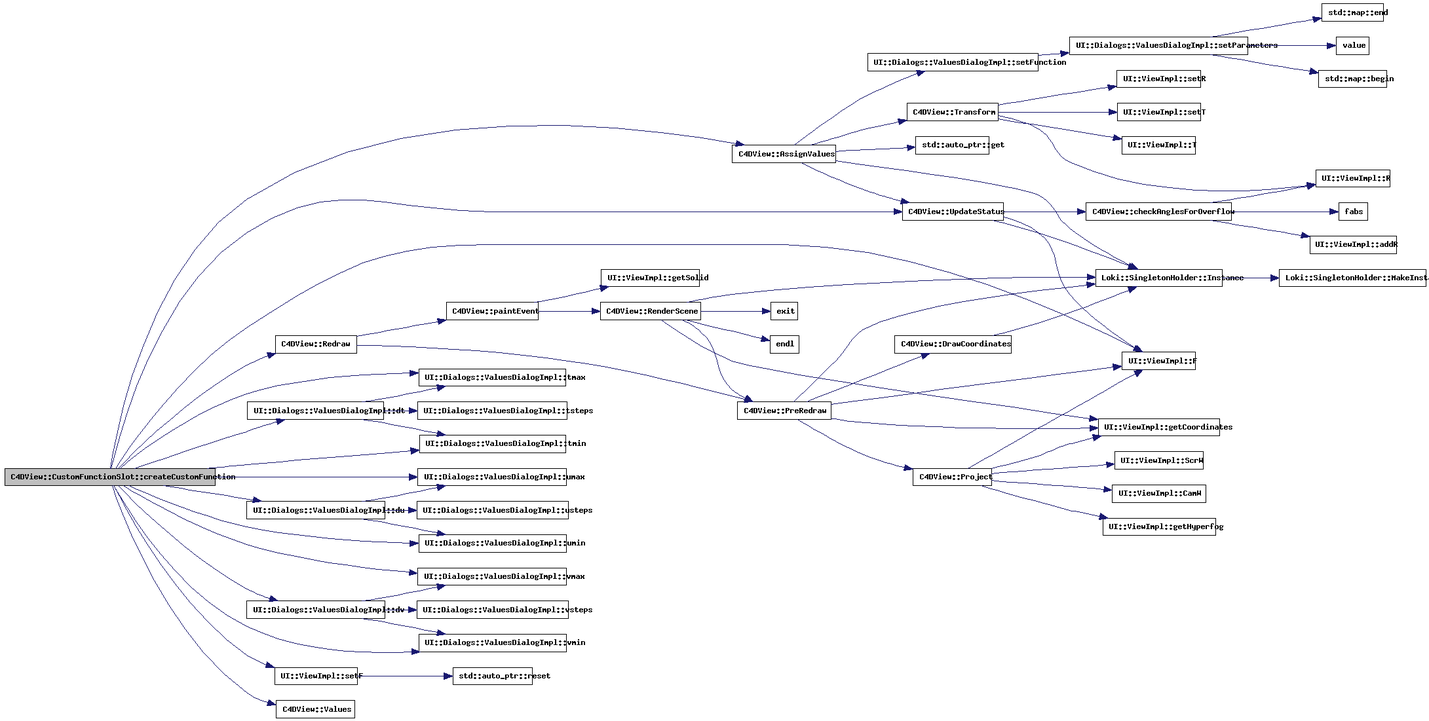
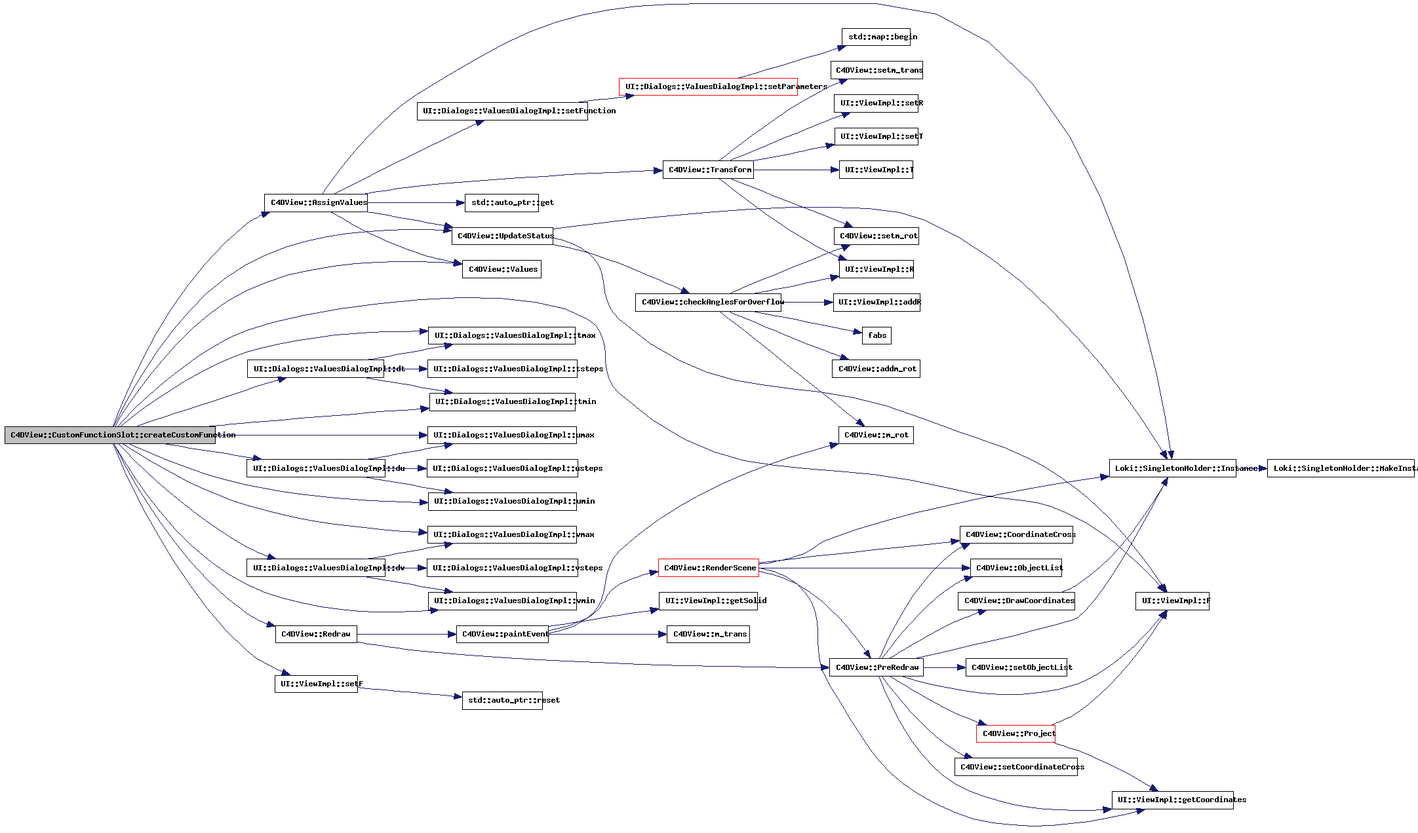
commented more functions and members

diff --git a/devel/html/html/group__UIHelpers.html b/devel/html/html/group__UIHelpers.html
@@ -99,7 +99,7 @@ Description: Implementation for <a class="el" href="group__UIHelpers.html#gb4150
 <dl class="author" compact><dt><b>Author:</b></dt><dd>: Helge Preuss &lt;<a href="mailto:scout@hyperspace-travel.de">scout@hyperspace-travel.de</a>&gt;, (C) 2008</dd></dl>
 Copyright: See COPYING file that comes with this distribution Factory method to create a new customized <a class="el" href="classFunction.html" title="A Function is a generalized four-dimensional mathematical function.">Function</a> of type R^3-&gt;R This function template is called by each slot with the correct function type as template parameter.<p>
 Sets F to the newly created <a class="el" href="classFunction.html" title="A Function is a generalized four-dimensional mathematical function.">Function</a>, checks the corresponding menu item, updates the ValuesDialog and redraws. Does some error handling in case the <a class="el" href="classFunction.html" title="A Function is a generalized four-dimensional mathematical function.">Function</a> could not be loaded. 
-<p>References <a class="el" href="4DView_8C-source.html#l00640">C4DView::AssignValues()</a>, <a class="el" href="ValuesDialogImpl_8H-source.html#l00057">UI::Dialogs::ValuesDialogImpl::dt()</a>, <a class="el" href="ValuesDialogImpl_8H-source.html#l00066">UI::Dialogs::ValuesDialogImpl::du()</a>, <a class="el" href="ValuesDialogImpl_8H-source.html#l00075">UI::Dialogs::ValuesDialogImpl::dv()</a>, <a class="el" href="ViewImpl_8H-source.html#l00040">UI::ViewImpl::F()</a>, <a class="el" href="4DView_8C-source.html#l00391">C4DView::Redraw()</a>, <a class="el" href="ViewImpl_8H-source.html#l00042">UI::ViewImpl::setF()</a>, <a class="el" href="ValuesDialogImpl_8H-source.html#l00053">UI::Dialogs::ValuesDialogImpl::tmax()</a>, <a class="el" href="ValuesDialogImpl_8H-source.html#l00051">UI::Dialogs::ValuesDialogImpl::tmin()</a>, <a class="el" href="ValuesDialogImpl_8H-source.html#l00062">UI::Dialogs::ValuesDialogImpl::umax()</a>, <a class="el" href="ValuesDialogImpl_8H-source.html#l00060">UI::Dialogs::ValuesDialogImpl::umin()</a>, <a class="el" href="4DView_8C-source.html#l00621">C4DView::UpdateStatus()</a>, <a class="el" href="4DView_8H-source.html#l00279">C4DView::Values()</a>, <a class="el" href="ValuesDialogImpl_8H-source.html#l00071">UI::Dialogs::ValuesDialogImpl::vmax()</a>, and <a class="el" href="ValuesDialogImpl_8H-source.html#l00069">UI::Dialogs::ValuesDialogImpl::vmin()</a>.</p>
+<p>References <a class="el" href="4DView_8C-source.html#l00640">C4DView::AssignValues()</a>, <a class="el" href="ValuesDialogImpl_8H-source.html#l00057">UI::Dialogs::ValuesDialogImpl::dt()</a>, <a class="el" href="ValuesDialogImpl_8H-source.html#l00066">UI::Dialogs::ValuesDialogImpl::du()</a>, <a class="el" href="ValuesDialogImpl_8H-source.html#l00075">UI::Dialogs::ValuesDialogImpl::dv()</a>, <a class="el" href="ViewImpl_8H-source.html#l00040">UI::ViewImpl::F()</a>, <a class="el" href="4DView_8C-source.html#l00391">C4DView::Redraw()</a>, <a class="el" href="ViewImpl_8H-source.html#l00042">UI::ViewImpl::setF()</a>, <a class="el" href="ValuesDialogImpl_8H-source.html#l00053">UI::Dialogs::ValuesDialogImpl::tmax()</a>, <a class="el" href="ValuesDialogImpl_8H-source.html#l00051">UI::Dialogs::ValuesDialogImpl::tmin()</a>, <a class="el" href="ValuesDialogImpl_8H-source.html#l00062">UI::Dialogs::ValuesDialogImpl::umax()</a>, <a class="el" href="ValuesDialogImpl_8H-source.html#l00060">UI::Dialogs::ValuesDialogImpl::umin()</a>, <a class="el" href="4DView_8C-source.html#l00621">C4DView::UpdateStatus()</a>, <a class="el" href="4DView_8H-source.html#l00304">C4DView::Values()</a>, <a class="el" href="ValuesDialogImpl_8H-source.html#l00071">UI::Dialogs::ValuesDialogImpl::vmax()</a>, and <a class="el" href="ValuesDialogImpl_8H-source.html#l00069">UI::Dialogs::ValuesDialogImpl::vmin()</a>.</p>
 
 <p>
 <div class="dynheader">
@@ -107,7 +107,7 @@ Here is the call graph for this function:</div>
 <div class="dynsection">
 <p><center><img src="group__UIHelpers_gb4150e26778debfb3de8214203578a41_cgraph.png" border="0" usemap="#group__UIHelpers_gb4150e26778debfb3de8214203578a41_cgraph_map" alt=""></center>
 <map name="group__UIHelpers_gb4150e26778debfb3de8214203578a41_cgraph_map">
-<area shape="rect" href="classC4DView.html#e38186ceacf6c4e6b13de7bee6cd8bda" title="Called whenever an object or the parameters have changed." alt="" coords="1117,221,1275,248"><area shape="rect" href="classC4DView.html#d37702c9ecc5cbf124df84d0263734b9" title="display some info about current object and its transformations" alt="" coords="1377,309,1529,336"><area shape="rect" href="classUI_1_1ViewImpl.html#7d0098100c1a7e5e9af8808072ab68da" title="UI::ViewImpl::F" alt="" coords="1712,537,1824,564"><area shape="rect" href="classUI_1_1Dialogs_1_1ValuesDialogImpl.html#16db20b10087e6c32a73cdf79f7d2f42" title="delta in parameter t" alt="" coords="377,613,585,640"><area shape="rect" href="classUI_1_1Dialogs_1_1ValuesDialogImpl.html#0a55d967b53b03382d72f4f9b3a8c76b" title="upper bound for parameter t" alt="" coords="639,563,863,589"><area shape="rect" href="classUI_1_1Dialogs_1_1ValuesDialogImpl.html#072f07410b8416016e23e33118d0b2d4" title="lower bound for parameter t" alt="" coords="640,664,861,691"><area shape="rect" href="classUI_1_1Dialogs_1_1ValuesDialogImpl.html#b561b67b911b7f242aa6a0a48c594370" title="delta in parameter u" alt="" coords="376,765,587,792"><area shape="rect" href="classUI_1_1Dialogs_1_1ValuesDialogImpl.html#79bc2ecceb55d8fe996caa8461b0f9d5" title="upper bound for parameter u" alt="" coords="637,715,864,741"><area shape="rect" href="classUI_1_1Dialogs_1_1ValuesDialogImpl.html#f88162efaf834e5984d4d8fe04d44af4" title="lower bound for parameter u" alt="" coords="639,816,863,843"><area shape="rect" href="classUI_1_1Dialogs_1_1ValuesDialogImpl.html#f08d237bd18f06ac69fd90122d06bc78" title="delta in parameter v" alt="" coords="376,917,587,944"><area shape="rect" href="classUI_1_1Dialogs_1_1ValuesDialogImpl.html#d9bc24310b0b1567cbac85c817828561" title="upper bound for parameter v" alt="" coords="637,867,864,893"><area shape="rect" href="classUI_1_1Dialogs_1_1ValuesDialogImpl.html#2f9af8468352e9afd8fb3b3bebd7ee43" title="lower bound for parameter v" alt="" coords="639,968,863,995"><area shape="rect" href="classC4DView.html#8d3fbc1fbe82b40046652bca8bde9605" title="Draw the transformed and projected function onto the screen." alt="" coords="420,512,543,539"><area shape="rect" href="classUI_1_1ViewImpl.html#e04c92a2f0580b1830b1cbfcca1c6715" title="Implementation of UI::View::setFunction." alt="" coords="419,1019,544,1045"><area shape="rect" href="classC4DView.html#ba6f8c8d13241215fc41f88a247cf6a7" title="C4DView::Values" alt="" coords="421,1069,541,1096"><area shape="rect" doxygen="libstdc++.tag:" href="a01015.html#bc36e1cfdc9c7940e3fea50de14560cd" title="std::auto_ptr::get" alt="" coords="1397,208,1509,235"><area shape="rect" href="classLoki_1_1SingletonHolder.html#52a113a9dc9aa53a5ab777c573f9fa28" title="Returns a reference to singleton object." alt="" coords="1672,411,1864,437"><area shape="rect" href="classUI_1_1Dialogs_1_1ValuesDialogImpl.html#dde4d7e444559027ba40b01581fee768" title="Adjust the display according to the Function whose Parameters are controlled." alt="" coords="1324,81,1583,108"><area shape="rect" href="classC4DView.html#16d5190870a166c65a20c59368ca0f2f" title="Overloaded function executing the transform to the default state." alt="" coords="1384,157,1523,184"><area shape="rect" href="classLoki_1_1SingletonHolder.html#d944c37d85028f4046d4e1f78f133710" title="create singleton object" alt="" coords="1952,411,2176,437"><area shape="rect" href="classUI_1_1Dialogs_1_1ValuesDialogImpl.html#1d1c6c3ea67ac213f4ce937ea1601fff" title="Adjust the displayed parameter fields to the parameters the function needs." alt="" coords="1632,56,1904,83"><area shape="rect" doxygen="libstdc++.tag:" href="a01208.html#fd7a61b93062043afa5b158ada25351e" title="std::map::begin" alt="" coords="2012,107,2116,133"><area shape="rect" doxygen="libstdc++.tag:" href="a01208.html#1c6e8eff4b690989cc1a3f746e68fb30" title="std::map::end" alt="" coords="2017,5,2111,32"><area shape="rect" doxygen="libstdc++.tag:" href="a01846.html#gdf513d2c47a98f2cd60f7dc86a343589" title="value" alt="" coords="2039,56,2089,83"><area shape="rect" href="classUI_1_1ViewImpl.html#a5594df1772137ac86e25b9f8435dc04" title="UI::ViewImpl::R" alt="" coords="2008,259,2120,285"><area shape="rect" href="classUI_1_1ViewImpl.html#be101a806860df3ab01616e3c092abdc" title="UI::ViewImpl::setR" alt="" coords="1704,107,1832,133"><area shape="rect" href="classUI_1_1ViewImpl.html#c116c3e53e586a0036fde67863580190" title="UI::ViewImpl::setT" alt="" coords="1705,157,1831,184"><area shape="rect" href="classUI_1_1ViewImpl.html#4df75156fbe950971ef1564ba8e873fe" title="UI::ViewImpl::T" alt="" coords="1712,208,1824,235"><area shape="rect" href="classC4DView.html#0b8d96f3304d94af1bac8854c908842f" title="Keep all rotation angles in the interval [&#45;360 degrees, 360 degrees]." alt="" coords="1657,309,1879,336"><area shape="rect" href="classUI_1_1ViewImpl.html#4a1ddf4d94623c7a94e8eb5809acf626" title="Add a Rotation to the current rotation state." alt="" coords="1999,360,2129,387"><area shape="rect" doxygen="libstdc++.tag:" href="a01815.html#42fec2f6c6429a447bea8a40720a143a" title="fabs" alt="" coords="2043,309,2085,336"><area shape="rect" href="classUI_1_1Dialogs_1_1ValuesDialogImpl.html#048c38bc05f745dca34dd68d35cf993e" title="steps in parameter t" alt="" coords="637,613,864,640"><area shape="rect" href="classUI_1_1Dialogs_1_1ValuesDialogImpl.html#9cebd8d993b63d33d3965e03fb51b801" title="steps in parameter u" alt="" coords="636,765,865,792"><area shape="rect" href="classUI_1_1Dialogs_1_1ValuesDialogImpl.html#57b3da19a4f4aa276ecb982031afe128" title="steps in parameter v" alt="" coords="636,917,865,944"><area shape="rect" href="classC4DView.html#be8e58d21b0e1c513b10afa294b162b2" title="Paint event handler, reimplemented from QGLWidget." alt="" coords="681,461,820,488"><area shape="rect" href="classC4DView.html#638fd2fe648c1fcd8f9a3ac03ac8f6b4" title="Draw the projection into an OpenGL display list, but not yet on screen." alt="" coords="1125,613,1267,640"><area shape="rect" href="classUI_1_1ViewImpl.html#03d77f320d7aada22c143646b40925d3" title="UI::ViewImpl::getSolid" alt="" coords="917,411,1067,437"><area shape="rect" href="classC4DView.html#b9561bdd967e89d314f7eda6de32b2bc" title="Wrapper for displaying OpenGL display lists." alt="" coords="916,461,1068,488"><area shape="rect" doxygen="libstdc++.tag:" href="a01815.html#10ebe236b3a6e1c3f67686162aa3e7ce" title="endl" alt="" coords="1175,512,1217,539"><area shape="rect" doxygen="libstdc++.tag:" href="a01815.html#2107b37641fcd1f3d16ecc9c0a18041f" title="exit" alt="" coords="1176,461,1216,488"><area shape="rect" href="classUI_1_1ViewImpl.html#756d50cd0f539f632b4ffe0d28f93559" title="UI::ViewImpl::getCoordinates" alt="" coords="1676,639,1860,665"><area shape="rect" href="classC4DView.html#37a8191d956104629a6182ba86755cd1" title="draw the coordinate cross (on screen or int GL list) */" alt="" coords="1365,512,1541,539"><area shape="rect" href="classC4DView.html#b9ec4da2c4a27a95302759968c3b9d90" title="Execute the projection into three&#45;space (but don&#39;t draw it yet either)." alt="" coords="1393,715,1513,741"><area shape="rect" href="classUI_1_1ViewImpl.html#9abf03872780e6e1af170c44c3bd6138" title="UI::ViewImpl::CamW" alt="" coords="1697,740,1839,767"><area shape="rect" href="classUI_1_1ViewImpl.html#862bf2d8e5cf2372e67c24ef324d1e3a" title="UI::ViewImpl::getHyperfog" alt="" coords="1683,791,1853,817"><area shape="rect" href="classUI_1_1ViewImpl.html#4e350b5709828386fd3831f3fbe14ff9" title="UI::ViewImpl::ScrW" alt="" coords="1701,689,1835,716"><area shape="rect" doxygen="libstdc++.tag:" href="a01015.html#1d78a540221e616997c2df6c98dd6765" title="std::auto_ptr::reset" alt="" coords="691,1019,811,1045"></map>
+<area shape="rect" href="classC4DView.html#e38186ceacf6c4e6b13de7bee6cd8bda" title="Called whenever an object or the parameters have changed." alt="" coords="403,296,560,323"><area shape="rect" href="classC4DView.html#d37702c9ecc5cbf124df84d0263734b9" title="display some info about current object and its transformations" alt="" coords="689,347,841,373"><area shape="rect" href="classUI_1_1ViewImpl.html#7d0098100c1a7e5e9af8808072ab68da" title="UI::ViewImpl::F" alt="" coords="1732,904,1844,931"><area shape="rect" href="classC4DView.html#ba6f8c8d13241215fc41f88a247cf6a7" title="C4DView::Values" alt="" coords="705,397,825,424"><area shape="rect" href="classUI_1_1Dialogs_1_1ValuesDialogImpl.html#16db20b10087e6c32a73cdf79f7d2f42" title="delta in parameter t" alt="" coords="377,549,585,576"><area shape="rect" href="classUI_1_1Dialogs_1_1ValuesDialogImpl.html#0a55d967b53b03382d72f4f9b3a8c76b" title="upper bound for parameter t" alt="" coords="653,499,877,525"><area shape="rect" href="classUI_1_1Dialogs_1_1ValuesDialogImpl.html#072f07410b8416016e23e33118d0b2d4" title="lower bound for parameter t" alt="" coords="655,600,876,627"><area shape="rect" href="classUI_1_1Dialogs_1_1ValuesDialogImpl.html#b561b67b911b7f242aa6a0a48c594370" title="delta in parameter u" alt="" coords="376,701,587,728"><area shape="rect" href="classUI_1_1Dialogs_1_1ValuesDialogImpl.html#79bc2ecceb55d8fe996caa8461b0f9d5" title="upper bound for parameter u" alt="" coords="652,651,879,677"><area shape="rect" href="classUI_1_1Dialogs_1_1ValuesDialogImpl.html#f88162efaf834e5984d4d8fe04d44af4" title="lower bound for parameter u" alt="" coords="653,752,877,779"><area shape="rect" href="classUI_1_1Dialogs_1_1ValuesDialogImpl.html#f08d237bd18f06ac69fd90122d06bc78" title="delta in parameter v" alt="" coords="376,853,587,880"><area shape="rect" href="classUI_1_1Dialogs_1_1ValuesDialogImpl.html#d9bc24310b0b1567cbac85c817828561" title="upper bound for parameter v" alt="" coords="652,803,879,829"><area shape="rect" href="classUI_1_1Dialogs_1_1ValuesDialogImpl.html#2f9af8468352e9afd8fb3b3bebd7ee43" title="lower bound for parameter v" alt="" coords="653,904,877,931"><area shape="rect" href="classC4DView.html#8d3fbc1fbe82b40046652bca8bde9605" title="Draw the transformed and projected function onto the screen." alt="" coords="420,955,543,981"><area shape="rect" href="classUI_1_1ViewImpl.html#e04c92a2f0580b1830b1cbfcca1c6715" title="Implementation of UI::View::setFunction." alt="" coords="419,1031,544,1057"><area shape="rect" doxygen="libstdc++.tag:" href="a01015.html#bc36e1cfdc9c7940e3fea50de14560cd" title="std::auto_ptr::get" alt="" coords="709,296,821,323"><area shape="rect" href="classLoki_1_1SingletonHolder.html#52a113a9dc9aa53a5ab777c573f9fa28" title="Returns a reference to singleton object." alt="" coords="1692,701,1884,728"><area shape="rect" href="classUI_1_1Dialogs_1_1ValuesDialogImpl.html#dde4d7e444559027ba40b01581fee768" title="Adjust the display according to the Function whose Parameters are controlled." alt="" coords="636,156,895,183"><area shape="rect" href="classC4DView.html#16d5190870a166c65a20c59368ca0f2f" title="Overloaded function executing the transform to the default state." alt="" coords="1011,245,1149,272"><area shape="rect" href="classLoki_1_1SingletonHolder.html#d944c37d85028f4046d4e1f78f133710" title="create singleton object" alt="" coords="1933,701,2157,728"><area shape="rect" href="classUI_1_1Dialogs_1_1ValuesDialogImpl.html#1d1c6c3ea67ac213f4ce937ea1601fff" title="Adjust the displayed parameter fields to the parameters the function needs." alt="" coords="944,119,1216,145"><area shape="rect" doxygen="libstdc++.tag:" href="a01208.html#fd7a61b93062043afa5b158ada25351e" title="std::map::begin" alt="" coords="1284,43,1388,69"><area shape="rect" href="classUI_1_1ViewImpl.html#a5594df1772137ac86e25b9f8435dc04" title="UI::ViewImpl::R" alt="" coords="1280,397,1392,424"><area shape="rect" href="classC4DView.html#36180772cadbb1517885c1a366aca25c" title="Set the current 3D rotation state." alt="" coords="1272,347,1400,373"><area shape="rect" href="classC4DView.html#3c8461856c1f84ed95d6f4994c69ede3" title="Set the current 3D translation state." alt="" coords="1267,93,1405,120"><area shape="rect" href="classUI_1_1ViewImpl.html#be101a806860df3ab01616e3c092abdc" title="UI::ViewImpl::setR" alt="" coords="1272,144,1400,171"><area shape="rect" href="classUI_1_1ViewImpl.html#c116c3e53e586a0036fde67863580190" title="UI::ViewImpl::setT" alt="" coords="1273,195,1399,221"><area shape="rect" href="classUI_1_1ViewImpl.html#4df75156fbe950971ef1564ba8e873fe" title="UI::ViewImpl::T" alt="" coords="1280,245,1392,272"><area shape="rect" href="classC4DView.html#0b8d96f3304d94af1bac8854c908842f" title="Keep all rotation angles in the interval [&#45;360 degrees, 360 degrees]." alt="" coords="969,448,1191,475"><area shape="rect" href="classC4DView.html#b7654a2bad6deeb87868385f3bd9c89d" title="Add a translation to the current 3D rotation state." alt="" coords="1269,549,1403,576"><area shape="rect" href="classUI_1_1ViewImpl.html#4a1ddf4d94623c7a94e8eb5809acf626" title="Add a Rotation to the current rotation state." alt="" coords="1271,448,1401,475"><area shape="rect" doxygen="libstdc++.tag:" href="a01815.html#42fec2f6c6429a447bea8a40720a143a" title="fabs" alt="" coords="1315,499,1357,525"><area shape="rect" href="classC4DView.html#45846d7481660ac879e933d8395cf49f" title="C4DView::m_rot" alt="" coords="1279,651,1393,677"><area shape="rect" href="classUI_1_1Dialogs_1_1ValuesDialogImpl.html#048c38bc05f745dca34dd68d35cf993e" title="steps in parameter t" alt="" coords="652,549,879,576"><area shape="rect" href="classUI_1_1Dialogs_1_1ValuesDialogImpl.html#9cebd8d993b63d33d3965e03fb51b801" title="steps in parameter u" alt="" coords="651,701,880,728"><area shape="rect" href="classUI_1_1Dialogs_1_1ValuesDialogImpl.html#57b3da19a4f4aa276ecb982031afe128" title="steps in parameter v" alt="" coords="651,853,880,880"><area shape="rect" href="classC4DView.html#be8e58d21b0e1c513b10afa294b162b2" title="Paint event handler, reimplemented from QGLWidget." alt="" coords="696,955,835,981"><area shape="rect" href="classC4DView.html#638fd2fe648c1fcd8f9a3ac03ac8f6b4" title="Draw the projection into an OpenGL display list, but not yet on screen." alt="" coords="1265,1005,1407,1032"><area shape="rect" href="classUI_1_1ViewImpl.html#03d77f320d7aada22c143646b40925d3" title="UI::ViewImpl::getSolid" alt="" coords="1005,904,1155,931"><area shape="rect" href="classC4DView.html#72ca1b3ddd5fd4dcfc1cb592d6e5c97a" title="C4DView::m_trans" alt="" coords="1017,955,1143,981"><area shape="rect" href="classC4DView.html#b9561bdd967e89d314f7eda6de32b2bc" title="Wrapper for displaying OpenGL display lists." alt="" coords="1004,853,1156,880"><area shape="rect" href="classC4DView.html#890b368e6451af1fef597099e7399757" title="C4DView::CoordinateCross" alt="" coords="1464,803,1635,829"><area shape="rect" href="classUI_1_1ViewImpl.html#756d50cd0f539f632b4ffe0d28f93559" title="UI::ViewImpl::getCoordinates" alt="" coords="1696,1208,1880,1235"><area shape="rect" href="classC4DView.html#646e0b61e1634dacf043d20692cb33cc" title="C4DView::ObjectList" alt="" coords="1480,853,1619,880"><area shape="rect" href="classC4DView.html#37a8191d956104629a6182ba86755cd1" title="draw the coordinate cross (on screen or int GL list) */" alt="" coords="1461,904,1637,931"><area shape="rect" href="classC4DView.html#b9ec4da2c4a27a95302759968c3b9d90" title="Execute the projection into three&#45;space (but don&#39;t draw it yet either)." alt="" coords="1489,1107,1609,1133"><area shape="rect" href="classC4DView.html#ddbd7468a38ac997ba7c1741bf59a235" title="Set a GLList for the display of the coordinates." alt="" coords="1456,1157,1643,1184"><area shape="rect" href="classC4DView.html#6a91ef85500b929ad9403d62cc75118e" title="Set a GLList for the display of the object." alt="" coords="1473,1005,1625,1032"><area shape="rect" doxygen="libstdc++.tag:" href="a01015.html#1d78a540221e616997c2df6c98dd6765" title="std::auto_ptr::reset" alt="" coords="705,1056,825,1083"></map>
 </div>
 
 </div>
@@ -139,7 +139,7 @@ Description: Implementation for creatFunction() resp. createSurface()<p>
 Copyright: See COPYING file that comes with this distribution Factory method to create a <a class="el" href="classFunction.html" title="A Function is a generalized four-dimensional mathematical function.">Function</a> object The type of the created <a class="el" href="classFunction.html" title="A Function is a generalized four-dimensional mathematical function.">Function</a> is supplied as template parameter to the TemplatedFunctionFactory object owning this method. 
 <p>Implements <a class="el" href="classRealFunctionFactory.html#aebf53e0e1747c6499455f4c284a83ae">RealFunctionFactory</a>.</p>
 
-<p>References <a class="el" href="ValuesDialogImpl_8H-source.html#l00057">UI::Dialogs::ValuesDialogImpl::dt()</a>, <a class="el" href="ValuesDialogImpl_8H-source.html#l00066">UI::Dialogs::ValuesDialogImpl::du()</a>, <a class="el" href="ValuesDialogImpl_8H-source.html#l00075">UI::Dialogs::ValuesDialogImpl::dv()</a>, <a class="el" href="ValuesDialogImpl_8H-source.html#l00053">UI::Dialogs::ValuesDialogImpl::tmax()</a>, <a class="el" href="ValuesDialogImpl_8H-source.html#l00051">UI::Dialogs::ValuesDialogImpl::tmin()</a>, <a class="el" href="ValuesDialogImpl_8H-source.html#l00062">UI::Dialogs::ValuesDialogImpl::umax()</a>, <a class="el" href="ValuesDialogImpl_8H-source.html#l00060">UI::Dialogs::ValuesDialogImpl::umin()</a>, <a class="el" href="4DView_8H-source.html#l00279">C4DView::Values()</a>, <a class="el" href="ValuesDialogImpl_8H-source.html#l00071">UI::Dialogs::ValuesDialogImpl::vmax()</a>, and <a class="el" href="ValuesDialogImpl_8H-source.html#l00069">UI::Dialogs::ValuesDialogImpl::vmin()</a>.</p>
+<p>References <a class="el" href="ValuesDialogImpl_8H-source.html#l00057">UI::Dialogs::ValuesDialogImpl::dt()</a>, <a class="el" href="ValuesDialogImpl_8H-source.html#l00066">UI::Dialogs::ValuesDialogImpl::du()</a>, <a class="el" href="ValuesDialogImpl_8H-source.html#l00075">UI::Dialogs::ValuesDialogImpl::dv()</a>, <a class="el" href="ValuesDialogImpl_8H-source.html#l00053">UI::Dialogs::ValuesDialogImpl::tmax()</a>, <a class="el" href="ValuesDialogImpl_8H-source.html#l00051">UI::Dialogs::ValuesDialogImpl::tmin()</a>, <a class="el" href="ValuesDialogImpl_8H-source.html#l00062">UI::Dialogs::ValuesDialogImpl::umax()</a>, <a class="el" href="ValuesDialogImpl_8H-source.html#l00060">UI::Dialogs::ValuesDialogImpl::umin()</a>, <a class="el" href="4DView_8H-source.html#l00304">C4DView::Values()</a>, <a class="el" href="ValuesDialogImpl_8H-source.html#l00071">UI::Dialogs::ValuesDialogImpl::vmax()</a>, and <a class="el" href="ValuesDialogImpl_8H-source.html#l00069">UI::Dialogs::ValuesDialogImpl::vmin()</a>.</p>
 
 <p>
 <div class="dynheader">
@@ -156,7 +156,7 @@ Here is the call graph for this function:</div>
         <hr size="1">
         <address style="text-align: right;">
             <small>
-                Generated on Thu Nov 6 18:30:46 2008 for HyperspaceExplorer 0.6.2
+                Generated on Fri Nov 7 10:08:00 2008 for HyperspaceExplorer 0.6.2
                 by&nbsp;<a href="http://www.doxygen.org/index.html"><img src="doxygen.png" alt="doxygen" align="middle" border="0"></a>
                 1.5.7.1
                 &nbsp;-&nbsp;

diff --git a/devel/html/html/group__VecMath.html b/devel/html/html/group__VecMath.html
@@ -122,13 +122,6 @@ template&lt;unsigned D, typename N &gt; </div>
 specialization for cross product of three 4-Vectors 
 <p>
 fails for dimensions other than 4 due to lack of template specialization<p>
-<dl compact><dt><b>Parameters:</b></dt><dd>
-  <table border="0" cellspacing="2" cellpadding="0">
-    <tr><td valign="top"></td><td valign="top"><em>a</em>&nbsp;</td><td>first operand of cross product </td></tr>
-    <tr><td valign="top"></td><td valign="top"><em>b</em>&nbsp;</td><td>second operand of cross product </td></tr>
-    <tr><td valign="top"></td><td valign="top"><em>c</em>&nbsp;</td><td>third operand of cross product </td></tr>
-  </table>
-</dl>
 <dl class="return" compact><dt><b>Returns:</b></dt><dd>a x b x c </dd></dl>
 
 </div>
@@ -164,12 +157,6 @@ template&lt;unsigned D, typename N &gt; </div>
 cross product of two Vectors 
 <p>
 fails for dimensions other than 3 due to lack of template specialization<p>
-<dl compact><dt><b>Parameters:</b></dt><dd>
-  <table border="0" cellspacing="2" cellpadding="0">
-    <tr><td valign="top"></td><td valign="top"><em>a</em>&nbsp;</td><td>first operand of cross product </td></tr>
-    <tr><td valign="top"></td><td valign="top"><em>b</em>&nbsp;</td><td>second operand of cross product </td></tr>
-  </table>
-</dl>
 <dl class="return" compact><dt><b>Returns:</b></dt><dd>a x b </dd></dl>
 
 </div>
@@ -286,7 +273,7 @@ template&lt;unsigned D, typename N &gt; </div>
 <p>
 <dl compact><dt><b>Parameters:</b></dt><dd>
   <table border="0" cellspacing="2" cellpadding="0">
-    <tr><td valign="top"></td><td valign="top"><em>o</em>&nbsp;</td><td>istream to read from </td></tr>
+    <tr><td valign="top"></td><td valign="top"><em>in</em>&nbsp;</td><td>istream to read from </td></tr>
     <tr><td valign="top"></td><td valign="top"><em>v</em>&nbsp;</td><td><a class="el" href="classVecMath_1_1Vector.html" title="Vector&lt;D, N&gt;: a D-dimensional vector of numbers of type N.">Vector</a> to read </td></tr>
   </table>
 </dl>
@@ -337,7 +324,7 @@ template&lt;unsigned D, typename N &gt; </div>
 <p>
 <dl compact><dt><b>Parameters:</b></dt><dd>
   <table border="0" cellspacing="2" cellpadding="0">
-    <tr><td valign="top"></td><td valign="top"><em>o</em>&nbsp;</td><td>istream to read from </td></tr>
+    <tr><td valign="top"></td><td valign="top"><em>in</em>&nbsp;</td><td>istream to read from </td></tr>
     <tr><td valign="top"></td><td valign="top"><em>v</em>&nbsp;</td><td><a class="el" href="classVecMath_1_1Rotation.html" title="Rotation in D-dimensional space defined by angles about the main axes.">Rotation</a> to read </td></tr>
   </table>
 </dl>
@@ -510,7 +497,7 @@ Here is the caller graph for this function:</div>
         <hr size="1">
         <address style="text-align: right;">
             <small>
-                Generated on Thu Nov 6 18:30:46 2008 for HyperspaceExplorer 0.6.2
+                Generated on Fri Nov 7 10:08:00 2008 for HyperspaceExplorer 0.6.2
                 by&nbsp;<a href="http://www.doxygen.org/index.html"><img src="doxygen.png" alt="doxygen" align="middle" border="0"></a>
                 1.5.7.1
                 &nbsp;-&nbsp;

diff --git a/devel/html/html/graph_legend.html b/devel/html/html/graph_legend.html
@@ -95,7 +95,7 @@ A yellow dashed arrow denotes a relation between a template instance and the tem
         <hr size="1">
         <address style="text-align: right;">
             <small>
-                Generated on Thu Nov 6 18:30:49 2008 for HyperspaceExplorer 0.6.2
+                Generated on Fri Nov 7 10:08:05 2008 for HyperspaceExplorer 0.6.2
                 by&nbsp;<a href="http://www.doxygen.org/index.html"><img src="doxygen.png" alt="doxygen" align="middle" border="0"></a>
                 1.5.7.1
                 &nbsp;-&nbsp;

diff --git a/devel/html/html/group__FunctionParameterGroup.html b/devel/html/html/group__FunctionParameterGroup.html
@@ -96,7 +96,7 @@ Declare <a class="el" href="classParameterFac.html" title="Class with factory me
         <hr size="1">
         <address style="text-align: right;">
             <small>
-                Generated on Thu Nov 6 18:30:46 2008 for HyperspaceExplorer 0.6.2
+                Generated on Fri Nov 7 10:08:00 2008 for HyperspaceExplorer 0.6.2
                 by&nbsp;<a href="http://www.doxygen.org/index.html"><img src="doxygen.png" alt="doxygen" align="middle" border="0"></a>
                 1.5.7.1
                 &nbsp;-&nbsp;

diff --git a/devel/html/html/group__ObjectGroup.html b/devel/html/html/group__ObjectGroup.html
@@ -64,7 +64,7 @@ Collaboration diagram for Arbitrary four-dimensional objects, described by their
         <hr size="1">
         <address style="text-align: right;">
             <small>
-                Generated on Thu Nov 6 18:30:46 2008 for HyperspaceExplorer 0.6.2
+                Generated on Fri Nov 7 10:08:00 2008 for HyperspaceExplorer 0.6.2
                 by&nbsp;<a href="http://www.doxygen.org/index.html"><img src="doxygen.png" alt="doxygen" align="middle" border="0"></a>
                 1.5.7.1
                 &nbsp;-&nbsp;

diff --git a/devel/html/html/group__SurfaceGroup.html b/devel/html/html/group__SurfaceGroup.html
@@ -63,7 +63,7 @@ Collaboration diagram for Functions R^2 -&gt; R^4, describing surfaces in four-s
         <hr size="1">
         <address style="text-align: right;">
             <small>
-                Generated on Thu Nov 6 18:30:46 2008 for HyperspaceExplorer 0.6.2
+                Generated on Fri Nov 7 10:08:00 2008 for HyperspaceExplorer 0.6.2
                 by&nbsp;<a href="http://www.doxygen.org/index.html"><img src="doxygen.png" alt="doxygen" align="middle" border="0"></a>
                 1.5.7.1
                 &nbsp;-&nbsp;

diff --git a/devel/html/html/group__Coloring.html b/devel/html/html/group__Coloring.html
@@ -72,7 +72,7 @@ Copyright: See COPYING file that comes with this distribution </div>
         <hr size="1">
         <address style="text-align: right;">
             <small>
-                Generated on Thu Nov 6 18:30:46 2008 for HyperspaceExplorer 0.6.2
+                Generated on Fri Nov 7 10:08:00 2008 for HyperspaceExplorer 0.6.2
                 by&nbsp;<a href="http://www.doxygen.org/index.html"><img src="doxygen.png" alt="doxygen" align="middle" border="0"></a>
                 1.5.7.1
                 &nbsp;-&nbsp;

diff --git a/devel/html/html/group__StatementGroup.html b/devel/html/html/group__StatementGroup.html
@@ -124,7 +124,7 @@ Collaboration diagram for Statements possible in a script:</div>
         <hr size="1">
         <address style="text-align: right;">
             <small>
-                Generated on Thu Nov 6 18:30:46 2008 for HyperspaceExplorer 0.6.2
+                Generated on Fri Nov 7 10:08:00 2008 for HyperspaceExplorer 0.6.2
                 by&nbsp;<a href="http://www.doxygen.org/index.html"><img src="doxygen.png" alt="doxygen" align="middle" border="0"></a>
                 1.5.7.1
                 &nbsp;-&nbsp;

diff --git a/devel/html/html/group__PolarGroup.html b/devel/html/html/group__PolarGroup.html
@@ -61,7 +61,7 @@ Collaboration diagram for Polar functions R^3 -&gt; R:</div>
         <hr size="1">
         <address style="text-align: right;">
             <small>
-                Generated on Thu Nov 6 18:30:46 2008 for HyperspaceExplorer 0.6.2
+                Generated on Fri Nov 7 10:08:00 2008 for HyperspaceExplorer 0.6.2
                 by&nbsp;<a href="http://www.doxygen.org/index.html"><img src="doxygen.png" alt="doxygen" align="middle" border="0"></a>
                 1.5.7.1
                 &nbsp;-&nbsp;

diff --git a/devel/html/html/group__FunctionGroup.html b/devel/html/html/group__FunctionGroup.html
@@ -72,7 +72,7 @@ Collaboration diagram for Functions and objects:</div>
         <hr size="1">
         <address style="text-align: right;">
             <small>
-                Generated on Thu Nov 6 18:30:46 2008 for HyperspaceExplorer 0.6.2
+                Generated on Fri Nov 7 10:08:00 2008 for HyperspaceExplorer 0.6.2
                 by&nbsp;<a href="http://www.doxygen.org/index.html"><img src="doxygen.png" alt="doxygen" align="middle" border="0"></a>
                 1.5.7.1
                 &nbsp;-&nbsp;

diff --git a/devel/html/html/group__RealGroup.html b/devel/html/html/group__RealGroup.html
@@ -73,7 +73,7 @@ Collaboration diagram for Functions R^3 -&gt; R:</div>
         <hr size="1">
         <address style="text-align: right;">
             <small>
-                Generated on Thu Nov 6 18:30:46 2008 for HyperspaceExplorer 0.6.2
+                Generated on Fri Nov 7 10:08:00 2008 for HyperspaceExplorer 0.6.2
                 by&nbsp;<a href="http://www.doxygen.org/index.html"><img src="doxygen.png" alt="doxygen" align="middle" border="0"></a>
                 1.5.7.1
                 &nbsp;-&nbsp;

diff --git a/devel/html/html/group__ComplexGroup.html b/devel/html/html/group__ComplexGroup.html
@@ -81,7 +81,7 @@ Collaboration diagram for Functions C -&gt; C:</div>
         <hr size="1">
         <address style="text-align: right;">
             <small>
-                Generated on Thu Nov 6 18:30:46 2008 for HyperspaceExplorer 0.6.2
+                Generated on Fri Nov 7 10:08:00 2008 for HyperspaceExplorer 0.6.2
                 by&nbsp;<a href="http://www.doxygen.org/index.html"><img src="doxygen.png" alt="doxygen" align="middle" border="0"></a>
                 1.5.7.1
                 &nbsp;-&nbsp;
